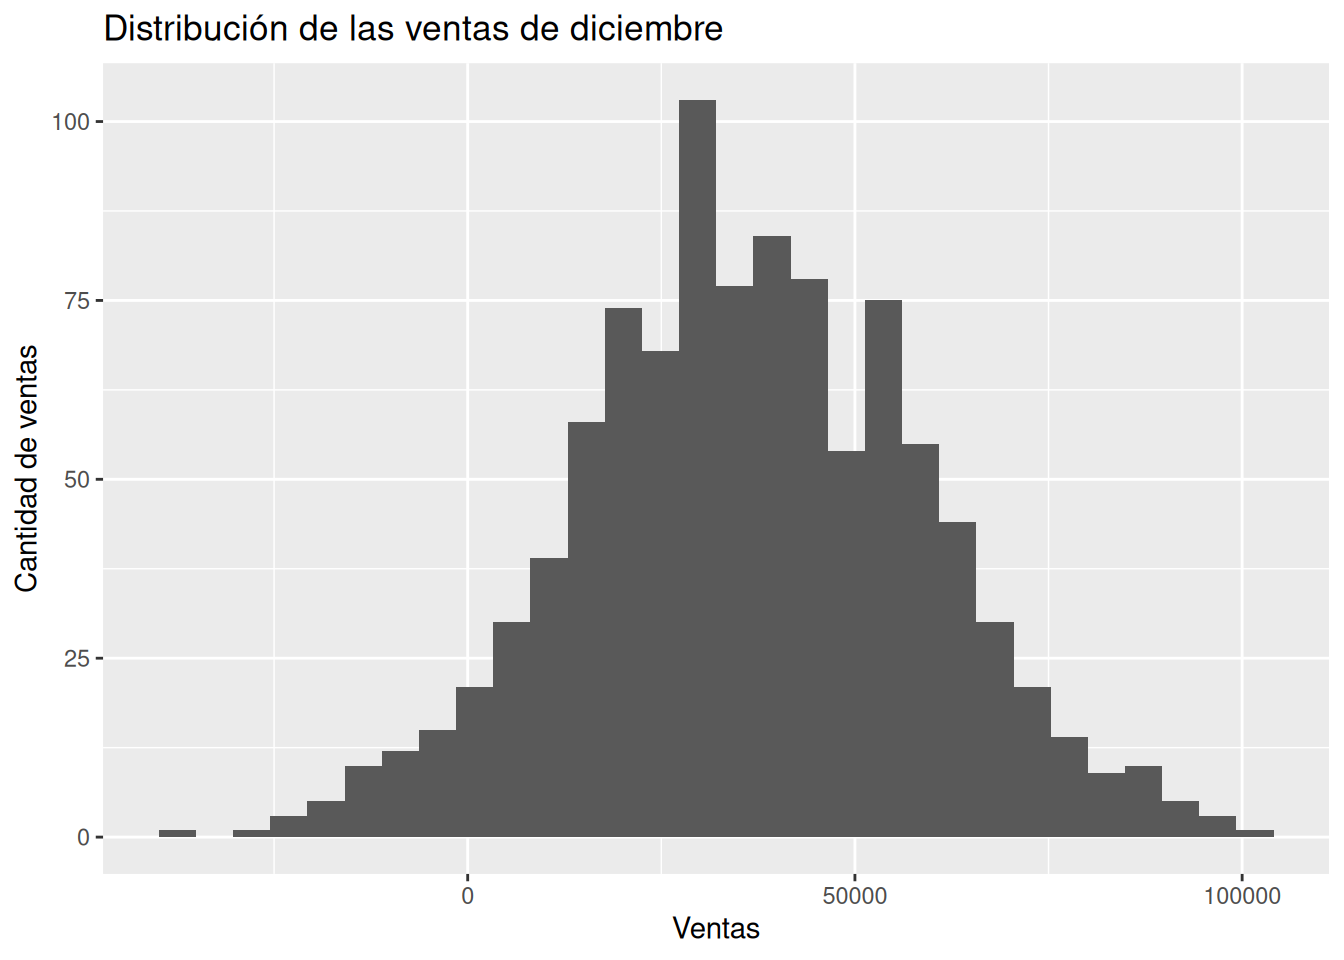
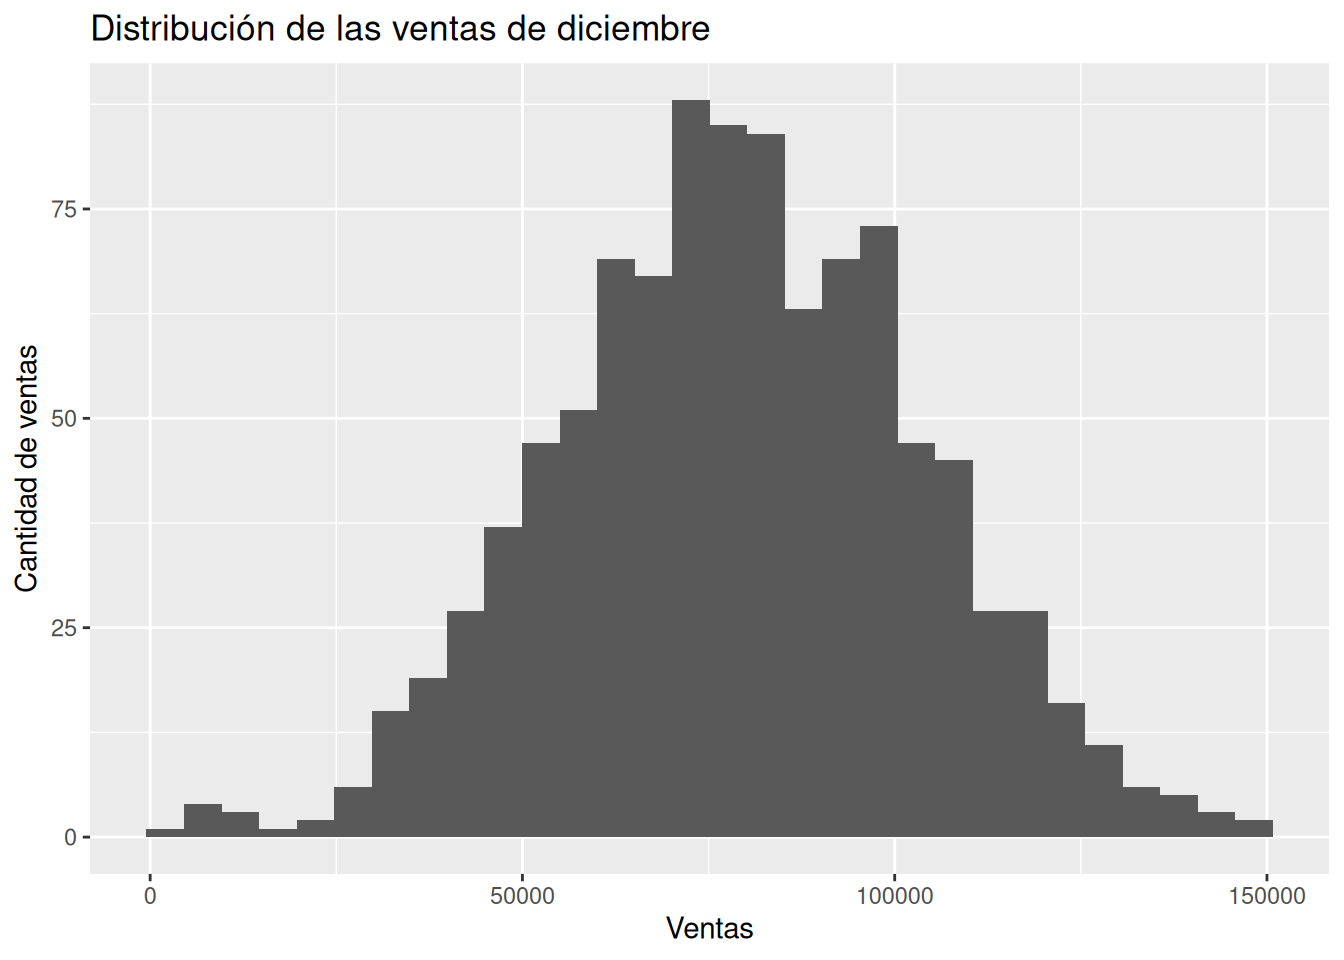
23-6-2026 15:14

diff --git a/projects/libro_ba/_site/analysis/c15.html b/projects/libro_ba/_site/analysis/c15.html
@@ -520,7 +520,8 @@ pre > code.sourceCode > span > a:first-child::before { text-decoration: underlin
 <h2 class="anchored" data-anchor-id="preparación-de-los-datos">15.4 Preparación de los datos</h2>
 <p>Comenzaremos agregando las ventas por mes.</p>
 <div class="cell">
-<div class="code-copy-outer-scaffold"><div class="sourceCode cell-code" id="cb1"><pre class="sourceCode r code-with-copy"><code class="sourceCode r"><span id="cb1-1"><a href="#cb1-1" aria-hidden="true" tabindex="-1"></a><span class="fu">class</span>(superstore<span class="sc">$</span><span class="st">`</span><span class="at">Order Date</span><span class="st">`</span>) <span class="co"># produce: character</span></span></code></pre></div><button title="Copy to Clipboard" class="code-copy-button"><i class="bi"></i></button></div>
+<div class="code-copy-outer-scaffold"><div class="sourceCode cell-code" id="cb1"><pre class="sourceCode r code-with-copy"><code class="sourceCode r"><span id="cb1-1"><a href="#cb1-1" aria-hidden="true" tabindex="-1"></a><span class="co"># Mostrar el tipo de la variable `Order Date`</span></span>
+<span id="cb1-2"><a href="#cb1-2" aria-hidden="true" tabindex="-1"></a><span class="fu">class</span>(superstore<span class="sc">$</span><span class="st">`</span><span class="at">Order Date</span><span class="st">`</span>) <span class="co"># produce: character</span></span></code></pre></div><button title="Copy to Clipboard" class="code-copy-button"><i class="bi"></i></button></div>
 <div class="cell-output cell-output-stdout">
 <pre><code>[1] "character"</code></pre>
 </div>
@@ -530,11 +531,12 @@ pre > code.sourceCode > span > a:first-child::before { text-decoration: underlin
 <span id="cb3-4"><a href="#cb3-4" aria-hidden="true" tabindex="-1"></a>ventas_mensuales <span class="ot">&lt;-</span></span>
 <span id="cb3-5"><a href="#cb3-5" aria-hidden="true" tabindex="-1"></a>  superstore <span class="sc">%&gt;%</span></span>
 <span id="cb3-6"><a href="#cb3-6" aria-hidden="true" tabindex="-1"></a>  <span class="fu">mutate</span>(</span>
-<span id="cb3-7"><a href="#cb3-7" aria-hidden="true" tabindex="-1"></a>    <span class="at">Order_Date =</span> <span class="fu">mdy</span>(<span class="st">`</span><span class="at">Order Date</span><span class="st">`</span>),</span>
-<span id="cb3-8"><a href="#cb3-8" aria-hidden="true" tabindex="-1"></a>    <span class="at">mes =</span> <span class="fu">floor_date</span>(Order_Date, <span class="st">"month"</span>)</span>
-<span id="cb3-9"><a href="#cb3-9" aria-hidden="true" tabindex="-1"></a>  )</span>
-<span id="cb3-10"><a href="#cb3-10" aria-hidden="true" tabindex="-1"></a><span class="co"># Mostrar 6 filas de las 9994 filas totales</span></span>
-<span id="cb3-11"><a href="#cb3-11" aria-hidden="true" tabindex="-1"></a>ventas_mensuales[<span class="dv">1</span><span class="sc">:</span><span class="dv">6</span>, <span class="sc">-</span><span class="dv">20</span><span class="sc">:-</span><span class="dv">1</span>] <span class="co"># produce:</span></span></code></pre></div><button title="Copy to Clipboard" class="code-copy-button"><i class="bi"></i></button></div>
+<span id="cb3-7"><a href="#cb3-7" aria-hidden="true" tabindex="-1"></a>    <span class="at">Order_Date =</span> <span class="fu">mdy</span>(<span class="st">`</span><span class="at">Order Date</span><span class="st">`</span>), <span class="co"># Pasar a tipo de dato fecha</span></span>
+<span id="cb3-8"><a href="#cb3-8" aria-hidden="true" tabindex="-1"></a>    <span class="at">mes =</span> <span class="fu">floor_date</span>(Order_Date, <span class="st">"month"</span>) <span class="co"># redondear la fecha hacia</span></span>
+<span id="cb3-9"><a href="#cb3-9" aria-hidden="true" tabindex="-1"></a>                                          <span class="co"># atrás (inicio de mes)</span></span>
+<span id="cb3-10"><a href="#cb3-10" aria-hidden="true" tabindex="-1"></a>  )</span>
+<span id="cb3-11"><a href="#cb3-11" aria-hidden="true" tabindex="-1"></a><span class="co"># Mostrar 6 filas de las 9994 filas totales</span></span>
+<span id="cb3-12"><a href="#cb3-12" aria-hidden="true" tabindex="-1"></a>ventas_mensuales[<span class="dv">1</span><span class="sc">:</span><span class="dv">6</span>, <span class="sc">-</span><span class="dv">20</span><span class="sc">:-</span><span class="dv">1</span>] <span class="co"># produce:</span></span></code></pre></div><button title="Copy to Clipboard" class="code-copy-button"><i class="bi"></i></button></div>
 <div class="cell-output cell-output-stdout">
 <pre><code># A tibble: 6 × 3
    Profit Order_Date mes       
@@ -646,9 +648,9 @@ pre > code.sourceCode > span > a:first-child::before { text-decoration: underlin
 <span id="cb10-12"><a href="#cb10-12" aria-hidden="true" tabindex="-1"></a><span class="fu">posterior_interval</span>(modelo_ventas) <span class="co"># produce:</span></span></code></pre></div><button title="Copy to Clipboard" class="code-copy-button"><i class="bi"></i></button></div>
 <div class="cell-output cell-output-stdout">
 <pre><code>                    5%       95%
-(Intercept) 15748.6575 36711.779
-tiempo        534.8943  1279.163
-sigma       19002.0479 26617.638</code></pre>
+(Intercept) 15252.6358 36113.340
+tiempo        528.1726  1289.644
+sigma       18996.0266 26157.543</code></pre>
 </div>
 </div>
 <p><em>Interpretación</em>: Es plausible que cada mes esté relacionado con un aumento de entre 548 y 1270 dólares en ventas.</p>
@@ -693,20 +695,11 @@ sigma       19002.0479 26617.638</code></pre>
 <span id="cb14-3"><a href="#cb14-3" aria-hidden="true" tabindex="-1"></a>simulaciones <span class="ot">&lt;-</span></span>
 <span id="cb14-4"><a href="#cb14-4" aria-hidden="true" tabindex="-1"></a>  <span class="fu">posterior_predict</span>(</span>
 <span id="cb14-5"><a href="#cb14-5" aria-hidden="true" tabindex="-1"></a>    modelo_ventas,</span>
-<span id="cb14-6"><a href="#cb14-6" aria-hidden="true" tabindex="-1"></a>    <span class="at">new_data =</span> futuro</span>
+<span id="cb14-6"><a href="#cb14-6" aria-hidden="true" tabindex="-1"></a>    <span class="at">newdata =</span> futuro</span>
 <span id="cb14-7"><a href="#cb14-7" aria-hidden="true" tabindex="-1"></a>  )</span>
 <span id="cb14-8"><a href="#cb14-8" aria-hidden="true" tabindex="-1"></a><span class="co"># Generar 6 de las 1000 simulaciones (1000 filas) y 5 de los 12 </span></span>
 <span id="cb14-9"><a href="#cb14-9" aria-hidden="true" tabindex="-1"></a><span class="co"># meses (12 columnas) </span></span>
-<span id="cb14-10"><a href="#cb14-10" aria-hidden="true" tabindex="-1"></a>simulaciones[<span class="dv">1</span><span class="sc">:</span><span class="dv">6</span> ,<span class="dv">1</span><span class="sc">:</span><span class="dv">5</span>] <span class="co"># produce:</span></span></code></pre></div><button title="Copy to Clipboard" class="code-copy-button"><i class="bi"></i></button></div>
-<div class="cell-output cell-output-stdout">
-<pre><code>              1          2         3        4          5
-[1,] 16868.3654  42628.011 70514.931 13773.30 28264.3517
-[2,] 58170.6139 103740.973 70600.651 32370.54 81547.2004
-[3,] -3886.5555 -17923.095 17970.916 26339.48 55406.6432
-[4,] -1807.7241  12326.879 38139.118 37989.78 32114.0307
-[5,] 43884.1282  33664.259  4881.543 42081.88 21575.2689
-[6,]  -624.7953   7303.227 -6942.047 10426.13  -797.0107</code></pre>
-</div>
+<span id="cb14-10"><a href="#cb14-10" aria-hidden="true" tabindex="-1"></a><span class="co">#simulaciones[1:6 ,1:5] # produce:</span></span></code></pre></div><button title="Copy to Clipboard" class="code-copy-button"><i class="bi"></i></button></div>
 </div>
 <p>Aquí aparece una diferencia importante respecto a capítulos anteriores.</p>
 <p><em>posterior_epred()</em> genera valores medios esperados.</p>
@@ -722,50 +715,54 @@ sigma       19002.0479 26617.638</code></pre>
 <h2 class="anchored" data-anchor-id="visualizando-múltiples-futuros">15.7 Visualizando múltiples futuros</h2>
 <p>Convertimos las simulaciones a formato largo.</p>
 <div class="cell">
-<div class="code-copy-outer-scaffold"><div class="sourceCode cell-code" id="cb16"><pre class="sourceCode r code-with-copy"><code class="sourceCode r"><span id="cb16-1"><a href="#cb16-1" aria-hidden="true" tabindex="-1"></a><span class="co"># Cambiar todas las simulaciones a formato largo</span></span>
-<span id="cb16-2"><a href="#cb16-2" aria-hidden="true" tabindex="-1"></a>escenarios <span class="ot">&lt;-</span></span>
-<span id="cb16-3"><a href="#cb16-3" aria-hidden="true" tabindex="-1"></a>  <span class="fu">as_draws_matrix</span>(simulaciones) <span class="sc">%&gt;%</span> <span class="co"># transformar a matriz</span></span>
-<span id="cb16-4"><a href="#cb16-4" aria-hidden="true" tabindex="-1"></a>  <span class="fu">as_tibble</span>() <span class="sc">%&gt;%</span> <span class="co"># transformar a tibble</span></span>
-<span id="cb16-5"><a href="#cb16-5" aria-hidden="true" tabindex="-1"></a>  <span class="fu">mutate</span>(</span>
-<span id="cb16-6"><a href="#cb16-6" aria-hidden="true" tabindex="-1"></a>    <span class="at">sim =</span> <span class="fu">row_number</span>() <span class="co"># numerar las filas</span></span>
-<span id="cb16-7"><a href="#cb16-7" aria-hidden="true" tabindex="-1"></a>  ) <span class="sc">%&gt;%</span></span>
-<span id="cb16-8"><a href="#cb16-8" aria-hidden="true" tabindex="-1"></a>  <span class="fu">pivot_longer</span>(  <span class="co"># pasar a formato largo</span></span>
-<span id="cb16-9"><a href="#cb16-9" aria-hidden="true" tabindex="-1"></a>    <span class="sc">-</span>sim,</span>
-<span id="cb16-10"><a href="#cb16-10" aria-hidden="true" tabindex="-1"></a>    <span class="at">names_to =</span> <span class="st">"mes"</span>,</span>
-<span id="cb16-11"><a href="#cb16-11" aria-hidden="true" tabindex="-1"></a>    <span class="at">values_to =</span> <span class="st">"ventas"</span></span>
-<span id="cb16-12"><a href="#cb16-12" aria-hidden="true" tabindex="-1"></a>  )</span>
-<span id="cb16-13"><a href="#cb16-13" aria-hidden="true" tabindex="-1"></a><span class="co"># Producir una tabla que repite cada una de las 1000 simulaciones</span></span>
-<span id="cb16-14"><a href="#cb16-14" aria-hidden="true" tabindex="-1"></a><span class="co"># (sim ) 48 veces (12 meses durante 4 años) y cada simulación </span></span>
-<span id="cb16-15"><a href="#cb16-15" aria-hidden="true" tabindex="-1"></a><span class="co"># tiene un valor de ventas</span></span>
-<span id="cb16-16"><a href="#cb16-16" aria-hidden="true" tabindex="-1"></a>escenarios[<span class="dv">1</span><span class="sc">:</span><span class="dv">6</span>,] <span class="co"># produce:</span></span></code></pre></div><button title="Copy to Clipboard" class="code-copy-button"><i class="bi"></i></button></div>
+<div class="code-copy-outer-scaffold"><div class="sourceCode cell-code" id="cb15"><pre class="sourceCode r code-with-copy"><code class="sourceCode r"><span id="cb15-1"><a href="#cb15-1" aria-hidden="true" tabindex="-1"></a><span class="co"># Cambiar todas las simulaciones a formato largo</span></span>
+<span id="cb15-2"><a href="#cb15-2" aria-hidden="true" tabindex="-1"></a>escenarios <span class="ot">&lt;-</span></span>
+<span id="cb15-3"><a href="#cb15-3" aria-hidden="true" tabindex="-1"></a>  <span class="fu">as_draws_matrix</span>(simulaciones) <span class="sc">%&gt;%</span> <span class="co"># transformar a matriz</span></span>
+<span id="cb15-4"><a href="#cb15-4" aria-hidden="true" tabindex="-1"></a>  <span class="fu">as_tibble</span>() <span class="sc">%&gt;%</span> <span class="co"># transformar a tibble</span></span>
+<span id="cb15-5"><a href="#cb15-5" aria-hidden="true" tabindex="-1"></a>  <span class="fu">mutate</span>(</span>
+<span id="cb15-6"><a href="#cb15-6" aria-hidden="true" tabindex="-1"></a>    <span class="at">sim =</span> <span class="fu">row_number</span>() <span class="co"># numerar las filas</span></span>
+<span id="cb15-7"><a href="#cb15-7" aria-hidden="true" tabindex="-1"></a>  ) <span class="sc">%&gt;%</span></span>
+<span id="cb15-8"><a href="#cb15-8" aria-hidden="true" tabindex="-1"></a>  <span class="fu">pivot_longer</span>(  <span class="co"># pasar a formato largo</span></span>
+<span id="cb15-9"><a href="#cb15-9" aria-hidden="true" tabindex="-1"></a>    <span class="sc">-</span>sim, <span class="co"># No incluir sim en el cambio a formato largo</span></span>
+<span id="cb15-10"><a href="#cb15-10" aria-hidden="true" tabindex="-1"></a>    <span class="at">names_to =</span> <span class="st">"mes"</span>,</span>
+<span id="cb15-11"><a href="#cb15-11" aria-hidden="true" tabindex="-1"></a>    <span class="at">values_to =</span> <span class="st">"ventas"</span></span>
+<span id="cb15-12"><a href="#cb15-12" aria-hidden="true" tabindex="-1"></a>  )</span>
+<span id="cb15-13"><a href="#cb15-13" aria-hidden="true" tabindex="-1"></a><span class="co"># Producir una tabla que repite cada una de las 1000 simulaciones</span></span>
+<span id="cb15-14"><a href="#cb15-14" aria-hidden="true" tabindex="-1"></a><span class="co"># (sim ) 12 veces  y cada simulación tiene un valor de ventas</span></span>
+<span id="cb15-15"><a href="#cb15-15" aria-hidden="true" tabindex="-1"></a>escenarios[<span class="dv">1</span><span class="sc">:</span><span class="dv">6</span>,] <span class="co"># produce:</span></span></code></pre></div><button title="Copy to Clipboard" class="code-copy-button"><i class="bi"></i></button></div>
 <div class="cell-output cell-output-stdout">
 <pre><code># A tibble: 6 × 3
     sim mes   ventas    
   &lt;int&gt; &lt;chr&gt; &lt;drws_mtr&gt;
-1     1 1     16868.37  
-2     1 2     42628.01  
-3     1 3     70514.93  
-4     1 4     13773.30  
-5     1 5     28264.35  
-6     1 6     33953.40  </code></pre>
+1     1 1     50173.73  
+2     1 2     46100.05  
+3     1 3     49433.66  
+4     1 4     41417.63  
+5     1 5     12184.32  
+6     1 6     47389.05  </code></pre>
 </div>
 </div>
 <p>Visualizamos múltiples trayectorias</p>
 <div class="cell">
-<div class="code-copy-outer-scaffold"><div class="sourceCode cell-code" id="cb18"><pre class="sourceCode r code-with-copy"><code class="sourceCode r"><span id="cb18-1"><a href="#cb18-1" aria-hidden="true" tabindex="-1"></a><span class="co"># Visualizar múltples escenarios de  ventas por mes</span></span>
-<span id="cb18-2"><a href="#cb18-2" aria-hidden="true" tabindex="-1"></a><span class="fu">ggplot</span>(</span>
-<span id="cb18-3"><a href="#cb18-3" aria-hidden="true" tabindex="-1"></a>  escenarios,</span>
-<span id="cb18-4"><a href="#cb18-4" aria-hidden="true" tabindex="-1"></a>  <span class="fu">aes</span>(</span>
-<span id="cb18-5"><a href="#cb18-5" aria-hidden="true" tabindex="-1"></a>    <span class="at">x =</span> <span class="fu">as.numeric</span>(mes),</span>
-<span id="cb18-6"><a href="#cb18-6" aria-hidden="true" tabindex="-1"></a>    <span class="at">y =</span> ventas,</span>
-<span id="cb18-7"><a href="#cb18-7" aria-hidden="true" tabindex="-1"></a>    <span class="at">group =</span> sim</span>
-<span id="cb18-8"><a href="#cb18-8" aria-hidden="true" tabindex="-1"></a>  ) </span>
-<span id="cb18-9"><a href="#cb18-9" aria-hidden="true" tabindex="-1"></a>) <span class="sc">+</span></span>
-<span id="cb18-10"><a href="#cb18-10" aria-hidden="true" tabindex="-1"></a>  <span class="fu">geom_line</span>(<span class="at">alpha =</span> <span class="fl">0.03</span>) <span class="sc">+</span></span>
-<span id="cb18-11"><a href="#cb18-11" aria-hidden="true" tabindex="-1"></a>  <span class="fu">labs</span>(</span>
-<span id="cb18-12"><a href="#cb18-12" aria-hidden="true" tabindex="-1"></a>    <span class="at">title =</span> <span class="st">"Futuros plausibles simulados"</span>,</span>
-<span id="cb18-13"><a href="#cb18-13" aria-hidden="true" tabindex="-1"></a>    <span class="at">x =</span> <span class="st">"Mes"</span></span>
-<span id="cb18-14"><a href="#cb18-14" aria-hidden="true" tabindex="-1"></a>  )</span></code></pre></div><button title="Copy to Clipboard" class="code-copy-button"><i class="bi"></i></button></div>
+<div class="code-copy-outer-scaffold"><div class="sourceCode cell-code" id="cb17"><pre class="sourceCode r code-with-copy"><code class="sourceCode r"><span id="cb17-1"><a href="#cb17-1" aria-hidden="true" tabindex="-1"></a><span class="co"># Conocer el tipo de la variable mes</span></span>
+<span id="cb17-2"><a href="#cb17-2" aria-hidden="true" tabindex="-1"></a><span class="fu">class</span>(escenarios<span class="sc">$</span>mes) <span class="co"># produce: [1] "character"</span></span></code></pre></div><button title="Copy to Clipboard" class="code-copy-button"><i class="bi"></i></button></div>
+<div class="cell-output cell-output-stdout">
+<pre><code>[1] "character"</code></pre>
+</div>
+<div class="code-copy-outer-scaffold"><div class="sourceCode cell-code" id="cb19"><pre class="sourceCode r code-with-copy"><code class="sourceCode r"><span id="cb19-1"><a href="#cb19-1" aria-hidden="true" tabindex="-1"></a><span class="co"># Visualizar múltples escenarios de  ventas por mes</span></span>
+<span id="cb19-2"><a href="#cb19-2" aria-hidden="true" tabindex="-1"></a><span class="fu">ggplot</span>(</span>
+<span id="cb19-3"><a href="#cb19-3" aria-hidden="true" tabindex="-1"></a>  escenarios,</span>
+<span id="cb19-4"><a href="#cb19-4" aria-hidden="true" tabindex="-1"></a>  <span class="fu">aes</span>(</span>
+<span id="cb19-5"><a href="#cb19-5" aria-hidden="true" tabindex="-1"></a>    <span class="at">x =</span> <span class="fu">as.numeric</span>(mes), <span class="co"># Cambiar el tipo de character a numeric</span></span>
+<span id="cb19-6"><a href="#cb19-6" aria-hidden="true" tabindex="-1"></a>    <span class="at">y =</span> ventas,</span>
+<span id="cb19-7"><a href="#cb19-7" aria-hidden="true" tabindex="-1"></a>    <span class="at">group =</span> sim</span>
+<span id="cb19-8"><a href="#cb19-8" aria-hidden="true" tabindex="-1"></a>  ) </span>
+<span id="cb19-9"><a href="#cb19-9" aria-hidden="true" tabindex="-1"></a>) <span class="sc">+</span></span>
+<span id="cb19-10"><a href="#cb19-10" aria-hidden="true" tabindex="-1"></a>  <span class="fu">geom_line</span>(<span class="at">alpha =</span> <span class="fl">0.03</span>) <span class="sc">+</span></span>
+<span id="cb19-11"><a href="#cb19-11" aria-hidden="true" tabindex="-1"></a>  <span class="fu">labs</span>(</span>
+<span id="cb19-12"><a href="#cb19-12" aria-hidden="true" tabindex="-1"></a>    <span class="at">title =</span> <span class="st">"Futuros plausibles simulados"</span>,</span>
+<span id="cb19-13"><a href="#cb19-13" aria-hidden="true" tabindex="-1"></a>    <span class="at">x =</span> <span class="st">"Mes"</span></span>
+<span id="cb19-14"><a href="#cb19-14" aria-hidden="true" tabindex="-1"></a>  )</span></code></pre></div><button title="Copy to Clipboard" class="code-copy-button"><i class="bi"></i></button></div>
 <div class="cell-output-display">
 <div>
 <figure class="figure">
@@ -786,55 +783,60 @@ sigma       19002.0479 26617.638</code></pre>
 <h2 class="anchored" data-anchor-id="bandas-predictivas">15.8 Bandas predictivas</h2>
 <p>Resumimos las simulaciones.</p>
 <div class="cell">
-<div class="code-copy-outer-scaffold"><div class="sourceCode cell-code" id="cb19"><pre class="sourceCode r code-with-copy"><code class="sourceCode r"><span id="cb19-1"><a href="#cb19-1" aria-hidden="true" tabindex="-1"></a><span class="co"># Agrupar las simulaciones por mes y resumir por percentil 5, 50 y</span></span>
-<span id="cb19-2"><a href="#cb19-2" aria-hidden="true" tabindex="-1"></a><span class="co"># 95</span></span>
-<span id="cb19-3"><a href="#cb19-3" aria-hidden="true" tabindex="-1"></a>bandas <span class="ot">&lt;-</span></span>
-<span id="cb19-4"><a href="#cb19-4" aria-hidden="true" tabindex="-1"></a>  escenarios <span class="sc">%&gt;%</span></span>
-<span id="cb19-5"><a href="#cb19-5" aria-hidden="true" tabindex="-1"></a>  <span class="fu">group_by</span>(mes) <span class="sc">%&gt;%</span></span>
-<span id="cb19-6"><a href="#cb19-6" aria-hidden="true" tabindex="-1"></a>  <span class="fu">summarise</span>(</span>
-<span id="cb19-7"><a href="#cb19-7" aria-hidden="true" tabindex="-1"></a>    <span class="at">p5 =</span> <span class="fu">quantile</span>(ventas, <span class="fl">0.05</span>),</span>
-<span id="cb19-8"><a href="#cb19-8" aria-hidden="true" tabindex="-1"></a>    <span class="at">p50 =</span> <span class="fu">median</span>(ventas),</span>
-<span id="cb19-9"><a href="#cb19-9" aria-hidden="true" tabindex="-1"></a>    <span class="at">p95 =</span> <span class="fu">quantile</span>(ventas, <span class="fl">0.95</span>),</span>
-<span id="cb19-10"><a href="#cb19-10" aria-hidden="true" tabindex="-1"></a>    <span class="at">.groups =</span> <span class="st">"drop"</span></span>
-<span id="cb19-11"><a href="#cb19-11" aria-hidden="true" tabindex="-1"></a>  )</span>
-<span id="cb19-12"><a href="#cb19-12" aria-hidden="true" tabindex="-1"></a><span class="co"># Mostrar 6 de los 48 meses (48 filas)</span></span>
-<span id="cb19-13"><a href="#cb19-13" aria-hidden="true" tabindex="-1"></a>bandas[<span class="dv">1</span><span class="sc">:</span><span class="dv">6</span>,] <span class="co"># produce:</span></span></code></pre></div><button title="Copy to Clipboard" class="code-copy-button"><i class="bi"></i></button></div>
+<div class="code-copy-outer-scaffold"><div class="sourceCode cell-code" id="cb20"><pre class="sourceCode r code-with-copy"><code class="sourceCode r"><span id="cb20-1"><a href="#cb20-1" aria-hidden="true" tabindex="-1"></a><span class="co"># Agrupar las simulaciones por mes y resumir por percentil 5, 50 y</span></span>
+<span id="cb20-2"><a href="#cb20-2" aria-hidden="true" tabindex="-1"></a><span class="co"># 95</span></span>
+<span id="cb20-3"><a href="#cb20-3" aria-hidden="true" tabindex="-1"></a>bandas <span class="ot">&lt;-</span></span>
+<span id="cb20-4"><a href="#cb20-4" aria-hidden="true" tabindex="-1"></a>  escenarios <span class="sc">%&gt;%</span></span>
+<span id="cb20-5"><a href="#cb20-5" aria-hidden="true" tabindex="-1"></a>  <span class="fu">group_by</span>(mes) <span class="sc">%&gt;%</span></span>
+<span id="cb20-6"><a href="#cb20-6" aria-hidden="true" tabindex="-1"></a>  <span class="fu">summarise</span>(</span>
+<span id="cb20-7"><a href="#cb20-7" aria-hidden="true" tabindex="-1"></a>    <span class="at">p5 =</span> <span class="fu">quantile</span>(ventas, <span class="fl">0.05</span>),</span>
+<span id="cb20-8"><a href="#cb20-8" aria-hidden="true" tabindex="-1"></a>    <span class="at">p50 =</span> <span class="fu">median</span>(ventas),</span>
+<span id="cb20-9"><a href="#cb20-9" aria-hidden="true" tabindex="-1"></a>    <span class="at">p95 =</span> <span class="fu">quantile</span>(ventas, <span class="fl">0.95</span>),</span>
+<span id="cb20-10"><a href="#cb20-10" aria-hidden="true" tabindex="-1"></a>    <span class="at">.groups =</span> <span class="st">"drop"</span></span>
+<span id="cb20-11"><a href="#cb20-11" aria-hidden="true" tabindex="-1"></a>  )</span>
+<span id="cb20-12"><a href="#cb20-12" aria-hidden="true" tabindex="-1"></a><span class="co"># Mostrar 6 de los 48 meses (48 filas)</span></span>
+<span id="cb20-13"><a href="#cb20-13" aria-hidden="true" tabindex="-1"></a>bandas[<span class="dv">1</span><span class="sc">:</span><span class="dv">6</span>,] <span class="co"># produce:</span></span></code></pre></div><button title="Copy to Clipboard" class="code-copy-button"><i class="bi"></i></button></div>
 <div class="cell-output cell-output-stdout">
 <pre><code># A tibble: 6 × 4
-  mes   p5             p50 p95       
-  &lt;chr&gt; &lt;drws_mtr&gt;   &lt;dbl&gt; &lt;drws_mtr&gt;
-1 1     -10889.8058 25866. 65464.37  
-2 10     -1672.9015 34319. 73910.86  
-3 11     -1383.4394 36570. 75607.83  
-4 12      -337.8211 36132. 73915.36  
-5 13      1351.5176 38373. 74947.09  
-6 14      1040.6924 38246. 74799.26  </code></pre>
+  mes   p5            p50 p95       
+  &lt;chr&gt; &lt;drws_mtr&gt;  &lt;dbl&gt; &lt;drws_mtr&gt;
+1 1     29880.57   69521. 108368.0  
+2 10    38745.50   77037. 119551.5  
+3 11    40568.37   78169. 118779.2  
+4 12    39547.16   78591. 119124.6  
+5 2     29118.30   69458. 111155.7  
+6 3     34710.00   71342. 110959.2  </code></pre>
 </div>
 </div>
 <p>Visualizamos los resultados</p>
 <div class="cell">
-<div class="code-copy-outer-scaffold"><div class="sourceCode cell-code" id="cb21"><pre class="sourceCode r code-with-copy"><code class="sourceCode r"><span id="cb21-1"><a href="#cb21-1" aria-hidden="true" tabindex="-1"></a><span class="co"># Crear bandas predictivas de las ventas por mes</span></span>
-<span id="cb21-2"><a href="#cb21-2" aria-hidden="true" tabindex="-1"></a><span class="fu">ggplot</span>(</span>
-<span id="cb21-3"><a href="#cb21-3" aria-hidden="true" tabindex="-1"></a>  bandas,</span>
-<span id="cb21-4"><a href="#cb21-4" aria-hidden="true" tabindex="-1"></a>  <span class="fu">aes</span>(</span>
-<span id="cb21-5"><a href="#cb21-5" aria-hidden="true" tabindex="-1"></a>    <span class="at">x =</span> <span class="fu">as.numeric</span>(mes)</span>
-<span id="cb21-6"><a href="#cb21-6" aria-hidden="true" tabindex="-1"></a>  )</span>
-<span id="cb21-7"><a href="#cb21-7" aria-hidden="true" tabindex="-1"></a>) <span class="sc">+</span></span>
-<span id="cb21-8"><a href="#cb21-8" aria-hidden="true" tabindex="-1"></a>  <span class="fu">geom_ribbon</span>(</span>
-<span id="cb21-9"><a href="#cb21-9" aria-hidden="true" tabindex="-1"></a>    <span class="fu">aes</span>(</span>
-<span id="cb21-10"><a href="#cb21-10" aria-hidden="true" tabindex="-1"></a>      <span class="at">ymin =</span> p5,</span>
-<span id="cb21-11"><a href="#cb21-11" aria-hidden="true" tabindex="-1"></a>      <span class="at">ymax =</span> p95</span>
-<span id="cb21-12"><a href="#cb21-12" aria-hidden="true" tabindex="-1"></a>    ),</span>
-<span id="cb21-13"><a href="#cb21-13" aria-hidden="true" tabindex="-1"></a>    <span class="at">alpha =</span> <span class="fl">0.3</span></span>
-<span id="cb21-14"><a href="#cb21-14" aria-hidden="true" tabindex="-1"></a>  ) <span class="sc">+</span></span>
-<span id="cb21-15"><a href="#cb21-15" aria-hidden="true" tabindex="-1"></a>  <span class="fu">geom_line</span>(</span>
-<span id="cb21-16"><a href="#cb21-16" aria-hidden="true" tabindex="-1"></a>    <span class="fu">aes</span>(<span class="at">y =</span> p50)</span>
-<span id="cb21-17"><a href="#cb21-17" aria-hidden="true" tabindex="-1"></a>  ) <span class="sc">+</span></span>
-<span id="cb21-18"><a href="#cb21-18" aria-hidden="true" tabindex="-1"></a>  <span class="fu">labs</span>(</span>
-<span id="cb21-19"><a href="#cb21-19" aria-hidden="true" tabindex="-1"></a>    <span class="at">title =</span> <span class="st">"Bandas predictivas"</span>,</span>
-<span id="cb21-20"><a href="#cb21-20" aria-hidden="true" tabindex="-1"></a>    <span class="at">x =</span> <span class="st">"Mes"</span>,</span>
-<span id="cb21-21"><a href="#cb21-21" aria-hidden="true" tabindex="-1"></a>    <span class="at">y =</span> <span class="st">"Ventas"</span></span>
-<span id="cb21-22"><a href="#cb21-22" aria-hidden="true" tabindex="-1"></a>  )</span></code></pre></div><button title="Copy to Clipboard" class="code-copy-button"><i class="bi"></i></button></div>
+<div class="code-copy-outer-scaffold"><div class="sourceCode cell-code" id="cb22"><pre class="sourceCode r code-with-copy"><code class="sourceCode r"><span id="cb22-1"><a href="#cb22-1" aria-hidden="true" tabindex="-1"></a><span class="co"># Conocer el tipo de la variable mes</span></span>
+<span id="cb22-2"><a href="#cb22-2" aria-hidden="true" tabindex="-1"></a><span class="fu">class</span>(escenarios<span class="sc">$</span>mes) <span class="co"># produce: [1] "character"</span></span></code></pre></div><button title="Copy to Clipboard" class="code-copy-button"><i class="bi"></i></button></div>
+<div class="cell-output cell-output-stdout">
+<pre><code>[1] "character"</code></pre>
+</div>
+<div class="code-copy-outer-scaffold"><div class="sourceCode cell-code" id="cb24"><pre class="sourceCode r code-with-copy"><code class="sourceCode r"><span id="cb24-1"><a href="#cb24-1" aria-hidden="true" tabindex="-1"></a><span class="co"># Crear bandas predictivas de las ventas por mes</span></span>
+<span id="cb24-2"><a href="#cb24-2" aria-hidden="true" tabindex="-1"></a><span class="fu">ggplot</span>(</span>
+<span id="cb24-3"><a href="#cb24-3" aria-hidden="true" tabindex="-1"></a>  bandas,</span>
+<span id="cb24-4"><a href="#cb24-4" aria-hidden="true" tabindex="-1"></a>  <span class="fu">aes</span>(</span>
+<span id="cb24-5"><a href="#cb24-5" aria-hidden="true" tabindex="-1"></a>    <span class="at">x =</span> <span class="fu">as.numeric</span>(mes)</span>
+<span id="cb24-6"><a href="#cb24-6" aria-hidden="true" tabindex="-1"></a>  )</span>
+<span id="cb24-7"><a href="#cb24-7" aria-hidden="true" tabindex="-1"></a>) <span class="sc">+</span></span>
+<span id="cb24-8"><a href="#cb24-8" aria-hidden="true" tabindex="-1"></a>  <span class="fu">geom_ribbon</span>(</span>
+<span id="cb24-9"><a href="#cb24-9" aria-hidden="true" tabindex="-1"></a>    <span class="fu">aes</span>(</span>
+<span id="cb24-10"><a href="#cb24-10" aria-hidden="true" tabindex="-1"></a>      <span class="at">ymin =</span> p5,</span>
+<span id="cb24-11"><a href="#cb24-11" aria-hidden="true" tabindex="-1"></a>      <span class="at">ymax =</span> p95</span>
+<span id="cb24-12"><a href="#cb24-12" aria-hidden="true" tabindex="-1"></a>    ),</span>
+<span id="cb24-13"><a href="#cb24-13" aria-hidden="true" tabindex="-1"></a>    <span class="at">alpha =</span> <span class="fl">0.3</span></span>
+<span id="cb24-14"><a href="#cb24-14" aria-hidden="true" tabindex="-1"></a>  ) <span class="sc">+</span></span>
+<span id="cb24-15"><a href="#cb24-15" aria-hidden="true" tabindex="-1"></a>  <span class="fu">geom_line</span>(</span>
+<span id="cb24-16"><a href="#cb24-16" aria-hidden="true" tabindex="-1"></a>    <span class="fu">aes</span>(<span class="at">y =</span> p50)</span>
+<span id="cb24-17"><a href="#cb24-17" aria-hidden="true" tabindex="-1"></a>  ) <span class="sc">+</span></span>
+<span id="cb24-18"><a href="#cb24-18" aria-hidden="true" tabindex="-1"></a>  <span class="fu">labs</span>(</span>
+<span id="cb24-19"><a href="#cb24-19" aria-hidden="true" tabindex="-1"></a>    <span class="at">title =</span> <span class="st">"Bandas predictivas"</span>,</span>
+<span id="cb24-20"><a href="#cb24-20" aria-hidden="true" tabindex="-1"></a>    <span class="at">x =</span> <span class="st">"Mes"</span>,</span>
+<span id="cb24-21"><a href="#cb24-21" aria-hidden="true" tabindex="-1"></a>    <span class="at">y =</span> <span class="st">"Ventas"</span></span>
+<span id="cb24-22"><a href="#cb24-22" aria-hidden="true" tabindex="-1"></a>  )</span></code></pre></div><button title="Copy to Clipboard" class="code-copy-button"><i class="bi"></i></button></div>
 <div class="cell-output-display">
 <div>
 <figure class="figure">
@@ -892,60 +894,62 @@ sigma       19002.0479 26617.638</code></pre>
 <h2 class="anchored" data-anchor-id="distribución-de-futuros-posibles">15.10 Distribución de futuros posibles</h2>
 <p>Tomemos el último mes proyectado.</p>
 <div class="cell">
-<div class="code-copy-outer-scaffold"><div class="sourceCode cell-code" id="cb22"><pre class="sourceCode r code-with-copy"><code class="sourceCode r"><span id="cb22-1"><a href="#cb22-1" aria-hidden="true" tabindex="-1"></a><span class="co"># Visualizar 6 de las 48000 filas o simulaciones (48 meses * 1000</span></span>
-<span id="cb22-2"><a href="#cb22-2" aria-hidden="true" tabindex="-1"></a><span class="co"># simulaciones)  </span></span>
-<span id="cb22-3"><a href="#cb22-3" aria-hidden="true" tabindex="-1"></a>escenarios[<span class="dv">1</span><span class="sc">:</span><span class="dv">6</span>,] <span class="co"># produce:</span></span></code></pre></div><button title="Copy to Clipboard" class="code-copy-button"><i class="bi"></i></button></div>
+<div class="code-copy-outer-scaffold"><div class="sourceCode cell-code" id="cb25"><pre class="sourceCode r code-with-copy"><code class="sourceCode r"><span id="cb25-1"><a href="#cb25-1" aria-hidden="true" tabindex="-1"></a><span class="co"># Visualizar 6 de las 48000 filas o simulaciones (48 meses * 1000</span></span>
+<span id="cb25-2"><a href="#cb25-2" aria-hidden="true" tabindex="-1"></a><span class="co"># simulaciones)  </span></span>
+<span id="cb25-3"><a href="#cb25-3" aria-hidden="true" tabindex="-1"></a>escenarios[<span class="dv">1</span><span class="sc">:</span><span class="dv">6</span>,] <span class="co"># produce:</span></span></code></pre></div><button title="Copy to Clipboard" class="code-copy-button"><i class="bi"></i></button></div>
 <div class="cell-output cell-output-stdout">
 <pre><code># A tibble: 6 × 3
     sim mes   ventas    
   &lt;int&gt; &lt;chr&gt; &lt;drws_mtr&gt;
-1     1 1     16868.37  
-2     1 2     42628.01  
-3     1 3     70514.93  
-4     1 4     13773.30  
-5     1 5     28264.35  
-6     1 6     33953.40  </code></pre>
+1     1 1     50173.73  
+2     1 2     46100.05  
+3     1 3     49433.66  
+4     1 4     41417.63  
+5     1 5     12184.32  
+6     1 6     47389.05  </code></pre>
 </div>
 </div>
 <div class="cell">
-<div class="code-copy-outer-scaffold"><div class="sourceCode cell-code" id="cb24"><pre class="sourceCode r code-with-copy"><code class="sourceCode r"><span id="cb24-1"><a href="#cb24-1" aria-hidden="true" tabindex="-1"></a><span class="co"># Escoger sólo las filas que en la variable mes tengan "12" en la</span></span>
-<span id="cb24-2"><a href="#cb24-2" aria-hidden="true" tabindex="-1"></a><span class="co"># tabla de escenarios que se cambió a formato largo</span></span>
-<span id="cb24-3"><a href="#cb24-3" aria-hidden="true" tabindex="-1"></a>ultimo_mes <span class="ot">&lt;-</span> </span>
-<span id="cb24-4"><a href="#cb24-4" aria-hidden="true" tabindex="-1"></a>  escenarios <span class="sc">%&gt;%</span></span>
-<span id="cb24-5"><a href="#cb24-5" aria-hidden="true" tabindex="-1"></a>  <span class="fu">filter</span>(</span>
-<span id="cb24-6"><a href="#cb24-6" aria-hidden="true" tabindex="-1"></a>    mes <span class="sc">==</span> <span class="dv">12</span> <span class="co"># max(mes) # produce: 9</span></span>
-<span id="cb24-7"><a href="#cb24-7" aria-hidden="true" tabindex="-1"></a>  )</span>
-<span id="cb24-8"><a href="#cb24-8" aria-hidden="true" tabindex="-1"></a><span class="co"># Generar 6 de las 1000 simulaciones para el mes 12</span></span>
-<span id="cb24-9"><a href="#cb24-9" aria-hidden="true" tabindex="-1"></a>ultimo_mes[<span class="dv">1</span><span class="sc">:</span><span class="dv">6</span>,] <span class="co"># produce:</span></span></code></pre></div><button title="Copy to Clipboard" class="code-copy-button"><i class="bi"></i></button></div>
+<div class="code-copy-outer-scaffold"><div class="sourceCode cell-code" id="cb27"><pre class="sourceCode r code-with-copy"><code class="sourceCode r"><span id="cb27-1"><a href="#cb27-1" aria-hidden="true" tabindex="-1"></a><span class="co"># Escoger sólo las filas que en la variable mes tengan "12" en la</span></span>
+<span id="cb27-2"><a href="#cb27-2" aria-hidden="true" tabindex="-1"></a><span class="co"># tabla de escenarios que se cambió a formato largo</span></span>
+<span id="cb27-3"><a href="#cb27-3" aria-hidden="true" tabindex="-1"></a>ultimo_mes <span class="ot">&lt;-</span></span>
+<span id="cb27-4"><a href="#cb27-4" aria-hidden="true" tabindex="-1"></a>  escenarios <span class="sc">|&gt;</span></span>
+<span id="cb27-5"><a href="#cb27-5" aria-hidden="true" tabindex="-1"></a>  <span class="fu">filter</span>(</span>
+<span id="cb27-6"><a href="#cb27-6" aria-hidden="true" tabindex="-1"></a>    <span class="co">#mes == "12" #max(mes) # produce "9"</span></span>
+<span id="cb27-7"><a href="#cb27-7" aria-hidden="true" tabindex="-1"></a>    <span class="fu">as.numeric</span>(mes) <span class="sc">==</span>     <span class="co"># cambiar el tipo de la variable mes de </span></span>
+<span id="cb27-8"><a href="#cb27-8" aria-hidden="true" tabindex="-1"></a>      <span class="fu">max</span>(<span class="fu">as.numeric</span>(mes)) <span class="co"># character a numeric</span></span>
+<span id="cb27-9"><a href="#cb27-9" aria-hidden="true" tabindex="-1"></a>  )</span>
+<span id="cb27-10"><a href="#cb27-10" aria-hidden="true" tabindex="-1"></a><span class="co"># Generar 6 de las 1000 simulaciones para el mes 12</span></span>
+<span id="cb27-11"><a href="#cb27-11" aria-hidden="true" tabindex="-1"></a>ultimo_mes[<span class="dv">1</span><span class="sc">:</span><span class="dv">6</span>,] <span class="co"># produce:</span></span></code></pre></div><button title="Copy to Clipboard" class="code-copy-button"><i class="bi"></i></button></div>
 <div class="cell-output cell-output-stdout">
 <pre><code># A tibble: 6 × 3
     sim mes   ventas    
   &lt;int&gt; &lt;chr&gt; &lt;drws_mtr&gt;
-1     1 12    60926.965 
-2     2 12    55275.600 
-3     3 12    56249.699 
-4     4 12    46377.846 
-5     5 12    30614.039 
-6     6 12     5170.577 </code></pre>
+1     1 12     66908.551
+2     2 12      8443.551
+3     3 12    105816.683
+4     4 12     48640.100
+5     5 12     97565.220
+6     6 12     33423.761</code></pre>
 </div>
 </div>
 <p>Visualizamos su distribución</p>
 <div class="cell">
-<div class="code-copy-outer-scaffold"><div class="sourceCode cell-code" id="cb26"><pre class="sourceCode r code-with-copy"><code class="sourceCode r"><span id="cb26-1"><a href="#cb26-1" aria-hidden="true" tabindex="-1"></a><span class="co"># Distribución de las ventas de los diciembres de las simulaciones</span></span>
-<span id="cb26-2"><a href="#cb26-2" aria-hidden="true" tabindex="-1"></a><span class="fu">ggplot</span>(</span>
-<span id="cb26-3"><a href="#cb26-3" aria-hidden="true" tabindex="-1"></a>  ultimo_mes,</span>
-<span id="cb26-4"><a href="#cb26-4" aria-hidden="true" tabindex="-1"></a>  <span class="fu">aes</span>(</span>
-<span id="cb26-5"><a href="#cb26-5" aria-hidden="true" tabindex="-1"></a>    <span class="at">x =</span> ventas </span>
-<span id="cb26-6"><a href="#cb26-6" aria-hidden="true" tabindex="-1"></a>  )</span>
-<span id="cb26-7"><a href="#cb26-7" aria-hidden="true" tabindex="-1"></a>) <span class="sc">+</span></span>
-<span id="cb26-8"><a href="#cb26-8" aria-hidden="true" tabindex="-1"></a>  <span class="fu">geom_histogram</span>(</span>
-<span id="cb26-9"><a href="#cb26-9" aria-hidden="true" tabindex="-1"></a>    <span class="at">bins =</span> <span class="dv">30</span></span>
-<span id="cb26-10"><a href="#cb26-10" aria-hidden="true" tabindex="-1"></a>  ) <span class="sc">+</span></span>
-<span id="cb26-11"><a href="#cb26-11" aria-hidden="true" tabindex="-1"></a>  <span class="fu">labs</span>(</span>
-<span id="cb26-12"><a href="#cb26-12" aria-hidden="true" tabindex="-1"></a>    <span class="at">title =</span> <span class="st">"Distribución de las ventas de diciembre"</span>,</span>
-<span id="cb26-13"><a href="#cb26-13" aria-hidden="true" tabindex="-1"></a>    <span class="at">x =</span> <span class="st">"Ventas"</span>,</span>
-<span id="cb26-14"><a href="#cb26-14" aria-hidden="true" tabindex="-1"></a>    <span class="at">y =</span> <span class="st">"Cantidad de ventas"</span></span>
-<span id="cb26-15"><a href="#cb26-15" aria-hidden="true" tabindex="-1"></a>  )</span></code></pre></div><button title="Copy to Clipboard" class="code-copy-button"><i class="bi"></i></button></div>
+<div class="code-copy-outer-scaffold"><div class="sourceCode cell-code" id="cb29"><pre class="sourceCode r code-with-copy"><code class="sourceCode r"><span id="cb29-1"><a href="#cb29-1" aria-hidden="true" tabindex="-1"></a><span class="co"># Distribución de las ventas de los diciembres de las simulaciones</span></span>
+<span id="cb29-2"><a href="#cb29-2" aria-hidden="true" tabindex="-1"></a><span class="fu">ggplot</span>(</span>
+<span id="cb29-3"><a href="#cb29-3" aria-hidden="true" tabindex="-1"></a>  ultimo_mes,</span>
+<span id="cb29-4"><a href="#cb29-4" aria-hidden="true" tabindex="-1"></a>  <span class="fu">aes</span>(</span>
+<span id="cb29-5"><a href="#cb29-5" aria-hidden="true" tabindex="-1"></a>    <span class="at">x =</span> ventas </span>
+<span id="cb29-6"><a href="#cb29-6" aria-hidden="true" tabindex="-1"></a>  )</span>
+<span id="cb29-7"><a href="#cb29-7" aria-hidden="true" tabindex="-1"></a>) <span class="sc">+</span></span>
+<span id="cb29-8"><a href="#cb29-8" aria-hidden="true" tabindex="-1"></a>  <span class="fu">geom_histogram</span>(</span>
+<span id="cb29-9"><a href="#cb29-9" aria-hidden="true" tabindex="-1"></a>    <span class="at">bins =</span> <span class="dv">30</span></span>
+<span id="cb29-10"><a href="#cb29-10" aria-hidden="true" tabindex="-1"></a>  ) <span class="sc">+</span></span>
+<span id="cb29-11"><a href="#cb29-11" aria-hidden="true" tabindex="-1"></a>  <span class="fu">labs</span>(</span>
+<span id="cb29-12"><a href="#cb29-12" aria-hidden="true" tabindex="-1"></a>    <span class="at">title =</span> <span class="st">"Distribución de las ventas de diciembre"</span>,</span>
+<span id="cb29-13"><a href="#cb29-13" aria-hidden="true" tabindex="-1"></a>    <span class="at">x =</span> <span class="st">"Ventas"</span>,</span>
+<span id="cb29-14"><a href="#cb29-14" aria-hidden="true" tabindex="-1"></a>    <span class="at">y =</span> <span class="st">"Cantidad de ventas"</span></span>
+<span id="cb29-15"><a href="#cb29-15" aria-hidden="true" tabindex="-1"></a>  )</span></code></pre></div><button title="Copy to Clipboard" class="code-copy-button"><i class="bi"></i></button></div>
 <div class="cell-output-display">
 <div>
 <figure class="figure">